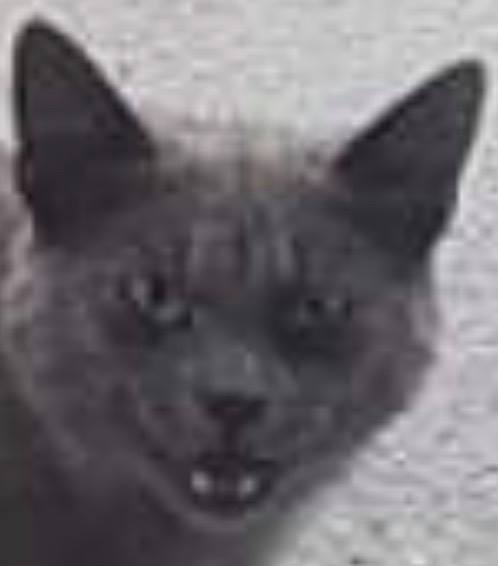
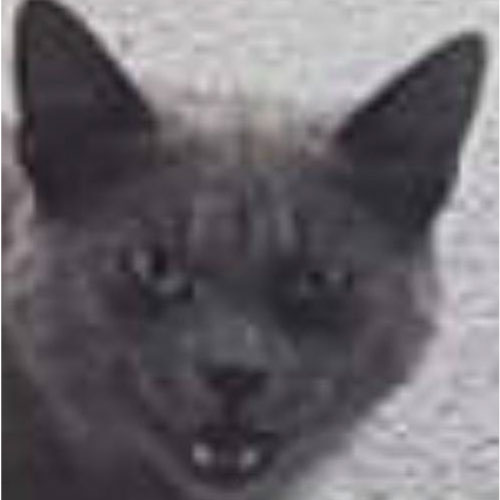
animal pics changes to fix pic ratio issues

diff --git a/index.html b/index.html
@@ -97,8 +97,7 @@
 
         <div class="col-sm-6 col-lg-4 col-xl-3">
           <div class="card h-100 shadow p-3 mb-5 bg-body rounded">
-            <img src="/assets/img/fly-adoption-chat.jpg" class="card-img-top img-fluid" alt="Chamech chat à adopter"
-              style="height:280px">
+            <img src="/assets/img/fly-adoption-chat.jpg" class="card-img-top" alt="Fly chat à adopter">
             <div class="card-body text-center">
               <h3 class="card-title border-bottom border-secondary pb-2">Fly - 13 ans</h3>
               <p class="card-text">Fly est un chat femelle qui plane un peu ... Attention, elle aime sa tranquillité.
@@ -112,8 +111,7 @@
 
         <div class="col-sm-6 col-lg-4 col-xl-3">
           <div class="card h-100 shadow p-3 mb-5 bg-body rounded border-0">
-            <img src="/assets/img/chamech-chat-adoption.jpg" class="card-img-top img-fluid" alt="Chamech chat à adopter"
-              style="height:280px">
+            <img src="/assets/img/chamech-chat-adoption.jpg" class="card-img-top" alt="Chamech chat à adopter">
             <div class="card-body text-center">
               <h3 class="card-title border-bottom border-secondary pb-2">Chamech - 1 an</h3>
               <p class="card-text">Chamech est un chat mâle, très affectueux. Il aime les enfants et les autres chats.
@@ -127,8 +125,7 @@
 
         <div class="col-sm-6 col-lg-4 col-xl-3">
           <div class="card h-100 shadow p-3 mb-5 bg-body rounded border-0">
-            <img src="/assets/img/You-chat-adoption.jpg" class="card-img-top img-fluid" alt="You chat à adopter"
-              style="height:280px">
+            <img src="/assets/img/You-chat-adoption.jpg" class="card-img-top" alt="You chat à adopter">
             <div class="card-body text-center">
               <h3 class="card-title border-bottom border-secondary pb-2">You - 2 ans</h3>
               <p class="card-text">You est un chat mâle, plutôt peureux mais un véritable pot de colle. Vacciné et pucé,
@@ -142,8 +139,7 @@
 
         <div class="col-sm-6 col-lg-4 col-xl-3">
           <div class="card h-100 shadow p-3 mb-5 bg-body rounded border-0">
-            <img src="/assets/img/Iccos-adoption-chat.jpg" class="card-img-top img-fluid" alt="Chamech chat à adopter"
-              style="height:280px">
+            <img src="/assets/img/Iccos-adoption-chat.jpg" class="card-img-top" alt="Cocoss chat à adopter">
             <div class="card-body text-center">
               <h3 class="card-title border-bottom border-secondary pb-2">Cocoss - 7 ans</h3>
               <p class="card-text">Cocos est un chat adulte mâle, assez indépendant. Il aime sa tranquillité, et les
@@ -313,8 +309,7 @@
 
         <div class="col-sm-6 col-lg-4 col-xl-3">
           <div class="card h-100 shadow p-3 mb-5 bg-body rounded">
-            <img src="/assets/img/lassi-adoption-chat.jpg" class="card-img-top img-fluid" alt="Lassi chien à adopter"
-              style="height:280px">
+            <img src="/assets/img/lassi-adoption-chat.jpg" class="card-img-top" alt="Lassi chien à adopter">
             <div class="card-body text-center">
               <h3 class="card-title border-bottom border-secondary pb-2">Lassi - 10 ans</h3>
               <p class="card-text">Lassi est une chienne douce et affectueuse, elle recherche une famille qui possède un
@@ -328,8 +323,7 @@
 
         <div class="col-sm-6 col-lg-4 col-xl-3">
           <div class="card h-100 shadow p-3 mb-5 bg-body rounded border-0">
-            <img src="/assets/img/wini-chien-adoption.jpg" class="card-img-top img-fluid" alt="Wini chien à adopter"
-              style="height:280px">
+            <img src="/assets/img/wini-chien-adoption.jpg" class="card-img-top" alt="Wini chien à adopter">
             <div class="card-body text-center">
               <h3 class="card-title border-bottom border-secondary pb-2">Wini - 3 an</h3>
               <p class="card-text">Wini est un petit chien très joueur et très dynamique. Il aura besoin d'un extérieur
@@ -343,8 +337,7 @@
 
         <div class="col-sm-6 col-lg-4 col-xl-3">
           <div class="card h-100 shadow p-3 mb-5 bg-body rounded border-0">
-            <img src="/assets/img/Rox-chien-adoption.jpg" class="card-img-top img-fluid" alt="Rox chien à adopter"
-              style="height:280px">
+            <img src="/assets/img/Rox-chien-adoption.jpg" class="card-img-top" alt="Rox chien à adopter">
             <div class="card-body text-center">
               <h3 class="card-title border-bottom border-secondary pb-2">Rox - 4 ans</h3>
               <p class="card-text">Rox, malgré ses airs, est une petite chienne très tranquille. Elle aime
@@ -358,8 +351,7 @@
 
         <div class="col-sm-6 col-lg-4 col-xl-3">
           <div class="card h-100 shadow p-3 mb-5 bg-body rounded border-0">
-            <img src="/assets/img/Indi-adoption-chien.jpg" class="card-img-top img-fluid" alt="Indi chien à adopter"
-              style="height:280px">
+            <img src="/assets/img/Indi-adoption-chien.jpg" class="card-img-top" alt="Indi chien à adopter">
             <div class="card-body text-center">
               <h3 class="card-title border-bottom border-secondary pb-2">Indi - 4 ans</h3>
               <p class="card-text">Indi est un chien très dynamique et loyal, par contre il ne faut pas qu'un chat passe
